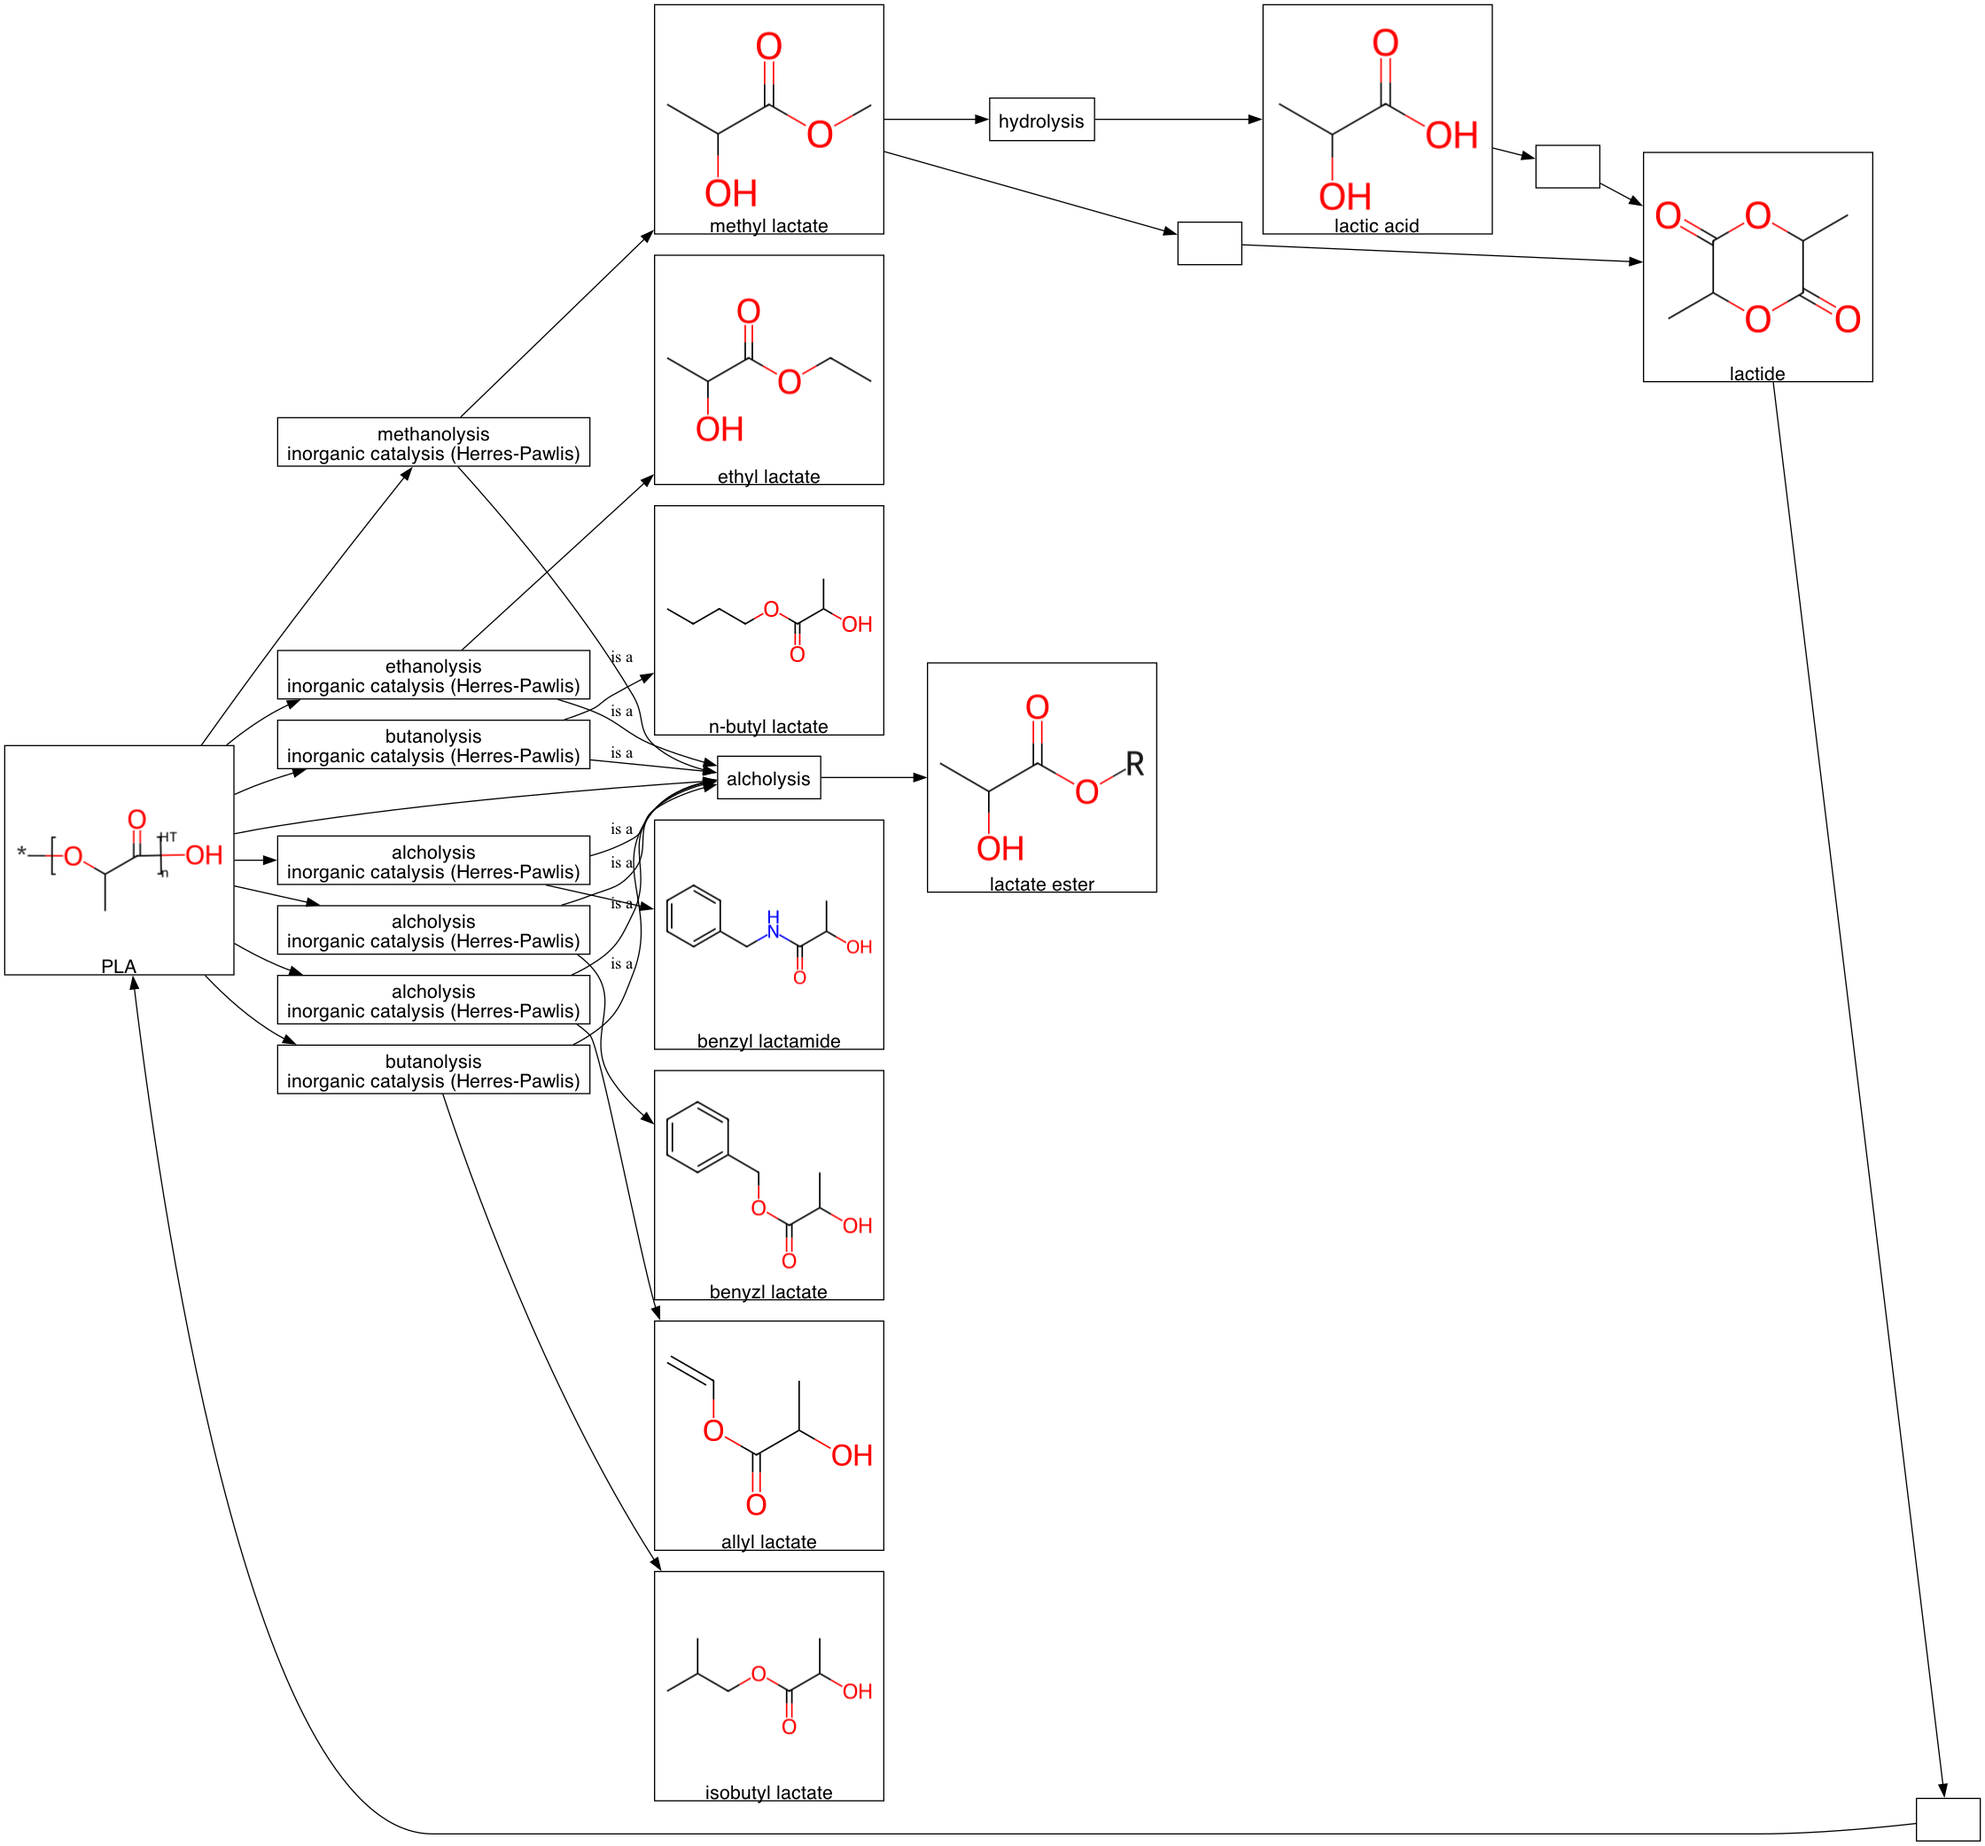
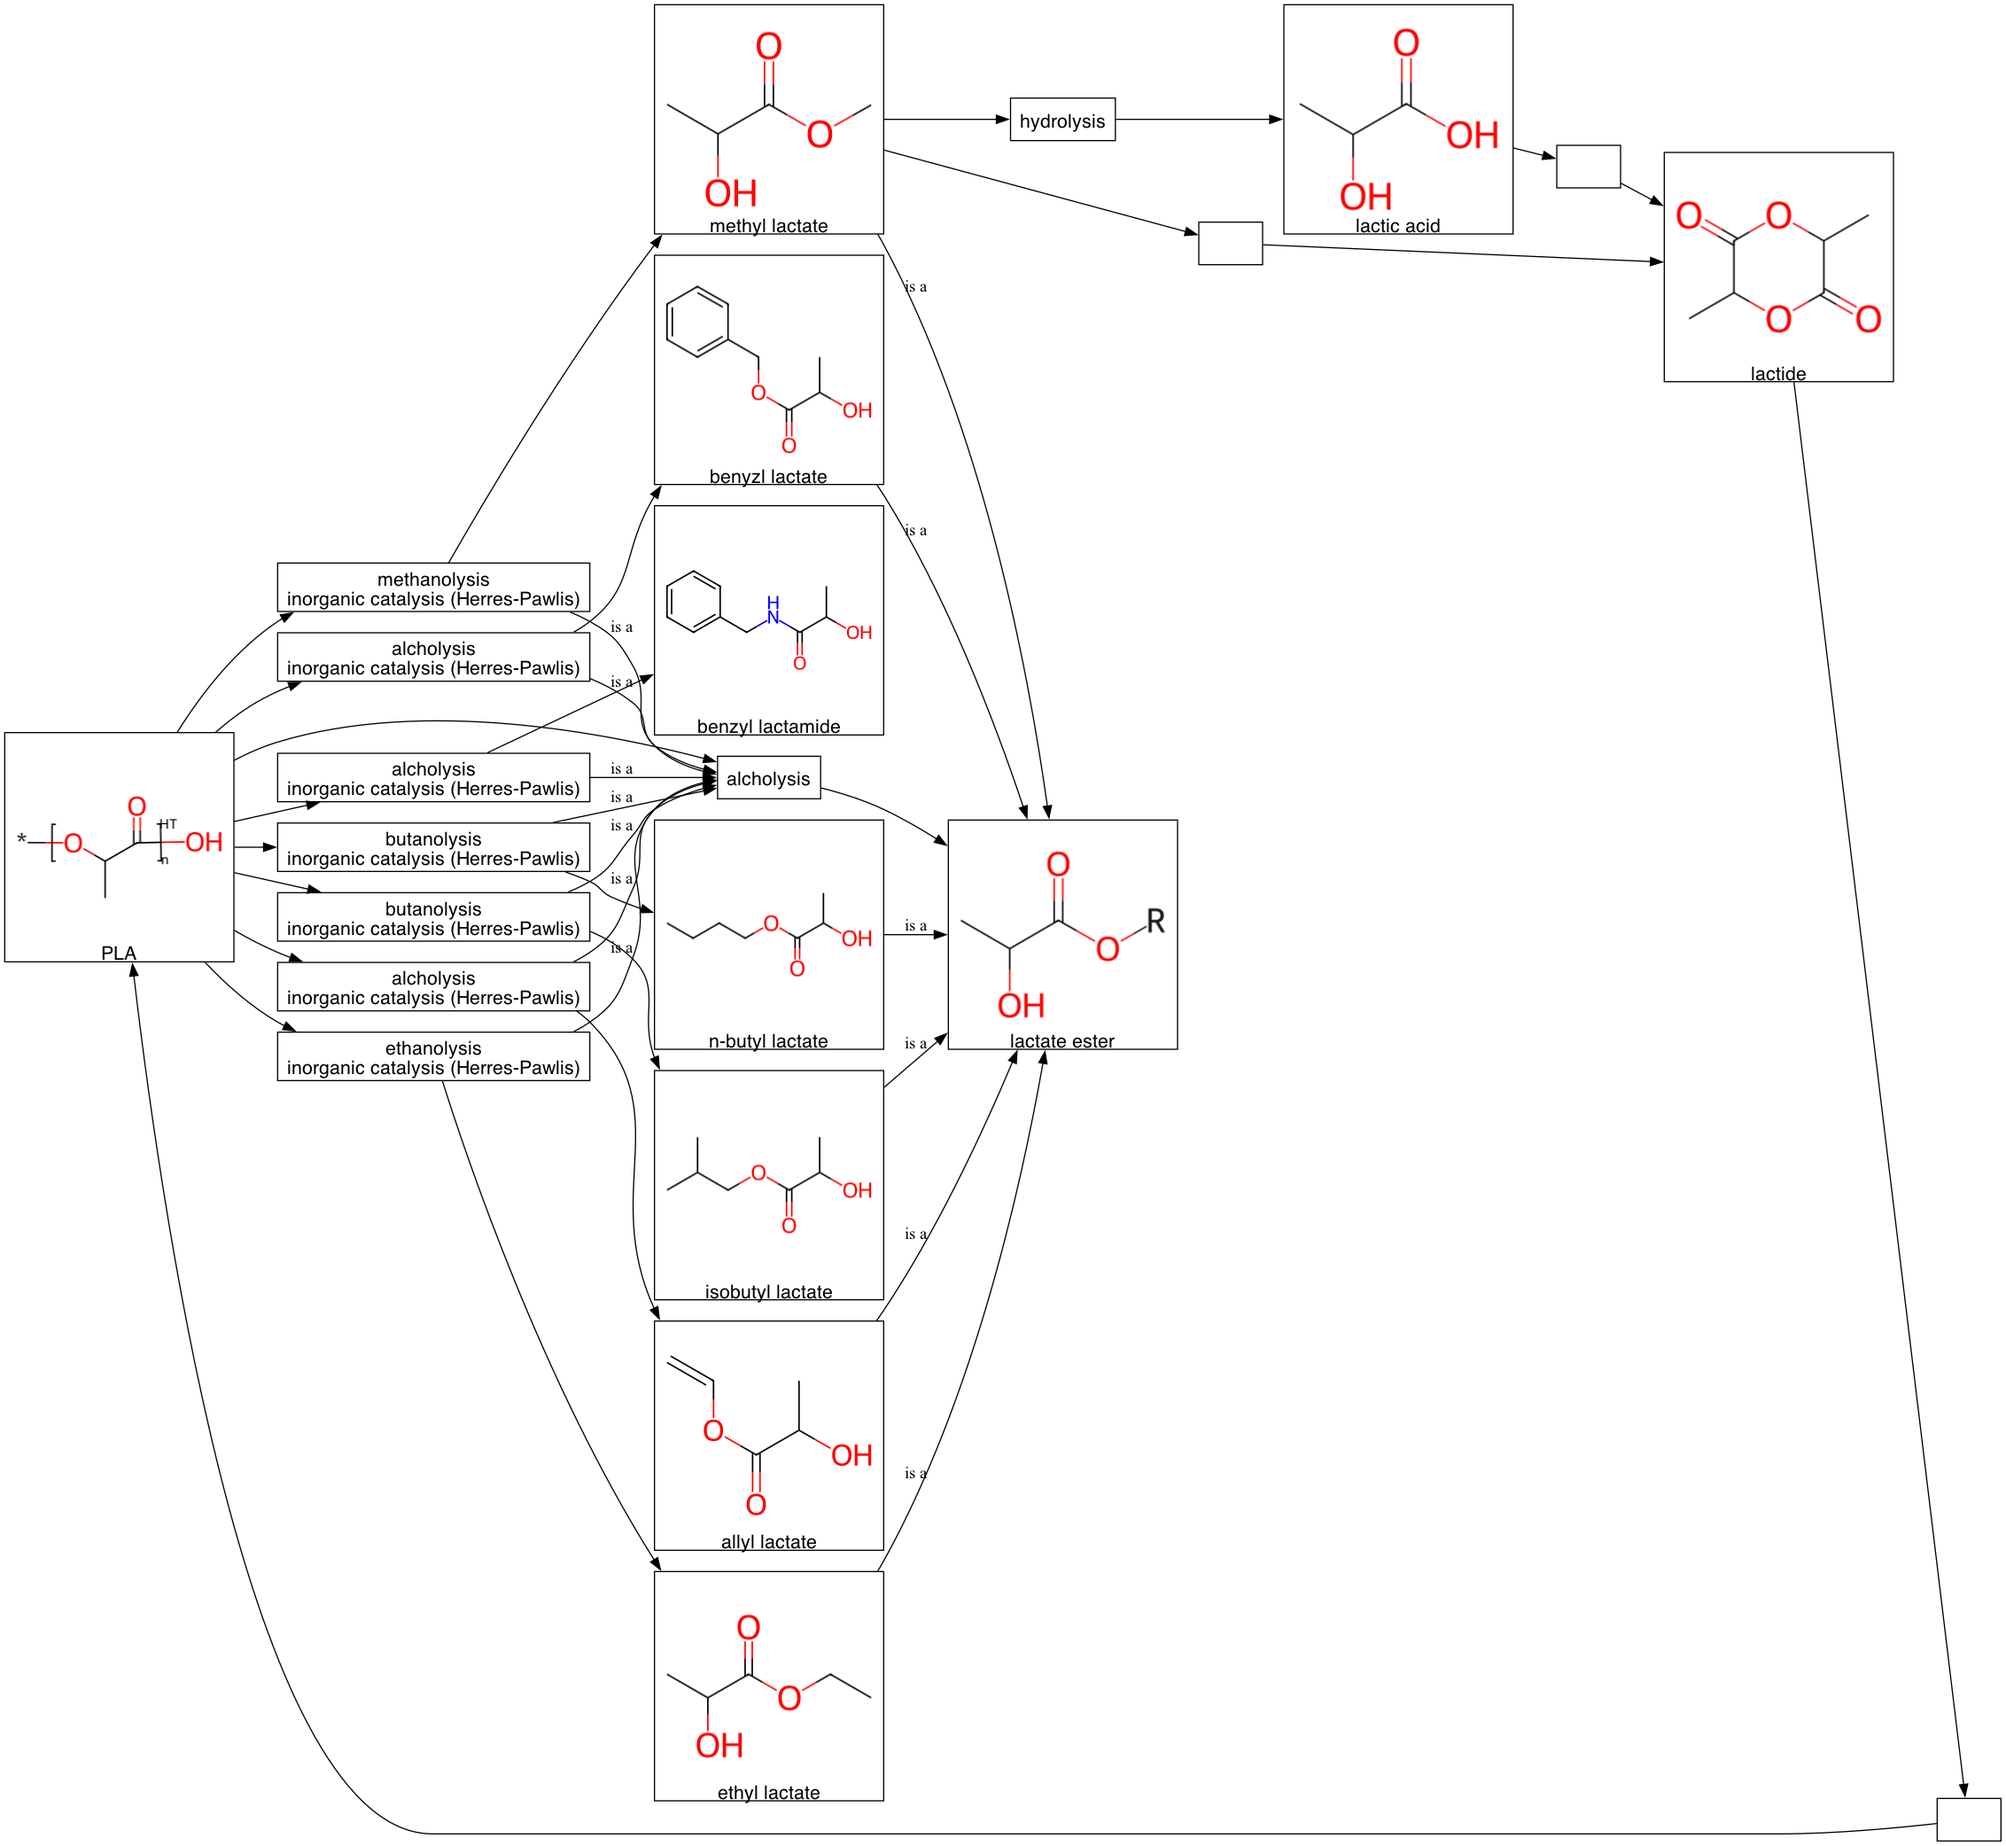
Add chemical hierarchy

diff --git a/draw.py b/draw.py
@@ -26,6 +26,7 @@ from constants import (
     REACTION_HIERARCHY_PATH,
     CONDITIONS_PATH,
     LABS_PATH,
+    CHEMICAL_HIERARCHY_PATH,
 )
 
 IMG = HERE.joinpath("img")
@@ -50,6 +51,7 @@ def main(
     labs_df = pd.read_csv(LABS_PATH, sep="\t")
     reactions_df = pd.read_csv(REACTIONS_PATH, sep="\t")
     reaction_hierarchy_df = pd.read_csv(REACTION_HIERARCHY_PATH, sep="\t")
+    chemical_hierarchy_df = pd.read_csv(CHEMICAL_HIERARCHY_PATH, sep="\t")
 
     for kingdom, kingdom_df in reactions_df.groupby("kingdom"):
         draw(
@@ -57,6 +59,7 @@ def main(
             reactions_df=kingdom_df,
             conditions_df=conditions_df,
             reaction_hierarchy_df=reaction_hierarchy_df,
+            chemical_hierarchy_df=chemical_hierarchy_df,
             add_reagent=add_reagent,
             add_output_2=add_output_2,
             group_closed_loop=group_closed_loop,
@@ -77,11 +80,13 @@ def draw(
     reactions_df: pd.DataFrame,
     conditions_df: pd.DataFrame,
     reaction_hierarchy_df: pd.DataFrame,
+    chemical_hierarchy_df: pd.DataFrame,
     *,
     add_reagent: bool = False,
     add_output_2: bool = False,
     group_closed_loop: bool = True,
     draw_reaction_hierarchy: bool = True,
+    draw_chemical_hierarchy: bool = True,
     direction: Literal["LR", "TD"] = "LR",
     output: Path | None = None,
 ) -> None | str:
@@ -197,6 +202,11 @@ def draw(
 
     if draw_reaction_hierarchy:
         for child, parent in reaction_hierarchy_df.values:
+            if child in graph and parent in graph:
+                graph.add_edge(child, parent, label="is a")
+
+    if draw_chemical_hierarchy:
+        for child, parent in chemical_hierarchy_df[["child", "parent"]].values:
             if child in graph and parent in graph:
                 graph.add_edge(child, parent, label="is a")
 

diff --git a/wsgi.py b/wsgi.py
@@ -21,6 +21,7 @@ from constants import (
     CONDITIONS_PATH,
     MEMBERSHIPS_PATH,
     CLOSED_LOOPS_PATH,
+    CHEMICAL_HIERARCHY_PATH,
 )
 from draw import draw_bytes
 
@@ -34,6 +35,7 @@ def _get_catalysts_df(conditions: pd.DataFrame) -> pd.DataFrame:
     ].drop_duplicates()
 
 
+CHEMICAL_HIERARCHY_DF = pd.read_csv(CHEMICAL_HIERARCHY_PATH, sep="\t")
 CLOSED_LOOPS_DF = pd.read_csv(CLOSED_LOOPS_PATH, sep="\t")
 LABS_DF = pd.read_csv(LABS_PATH, sep="\t")
 REACTIONS_DF = pd.read_csv(REACTIONS_PATH, sep="\t")
@@ -150,6 +152,7 @@ def get_entity(curie: str) -> str:
         reactions_df=substrate_reactions_df,
         conditions_df=substrate_conditions_df,
         reaction_hierarchy_df=REACTION_HIERARCHY_DF,
+        chemical_hierarchy_df=CHEMICAL_HIERARCHY_DF,
         direction="TD",
         group_closed_loop=False,
     )
@@ -164,6 +167,7 @@ def get_entity(curie: str) -> str:
         reactions_df=product_reactions_df,
         conditions_df=product_conditions_df,
         reaction_hierarchy_df=REACTION_HIERARCHY_DF,
+        chemical_hierarchy_df=CHEMICAL_HIERARCHY_DF,
         direction="TD",
         group_closed_loop=False,
     )

diff --git a/constants.py b/constants.py
@@ -8,3 +8,4 @@ REACTION_HIERARCHY_PATH = CURATION_DIR.joinpath("reaction_hierarchy.tsv")
 CONDITIONS_PATH = CURATION_DIR.joinpath("conditions.tsv")
 MEMBERSHIPS_PATH = CURATION_DIR.joinpath("memberships.tsv")
 CLOSED_LOOPS_PATH = CURATION_DIR.joinpath("closed_loops.tsv")
+CHEMICAL_HIERARCHY_PATH = CURATION_DIR.joinpath("chemical_hierarchy.tsv")
